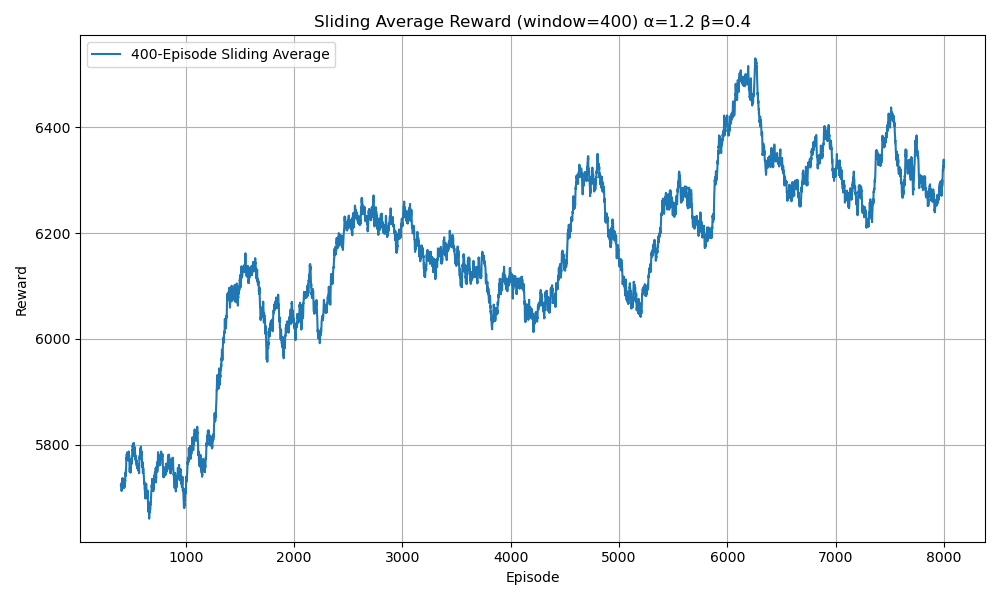
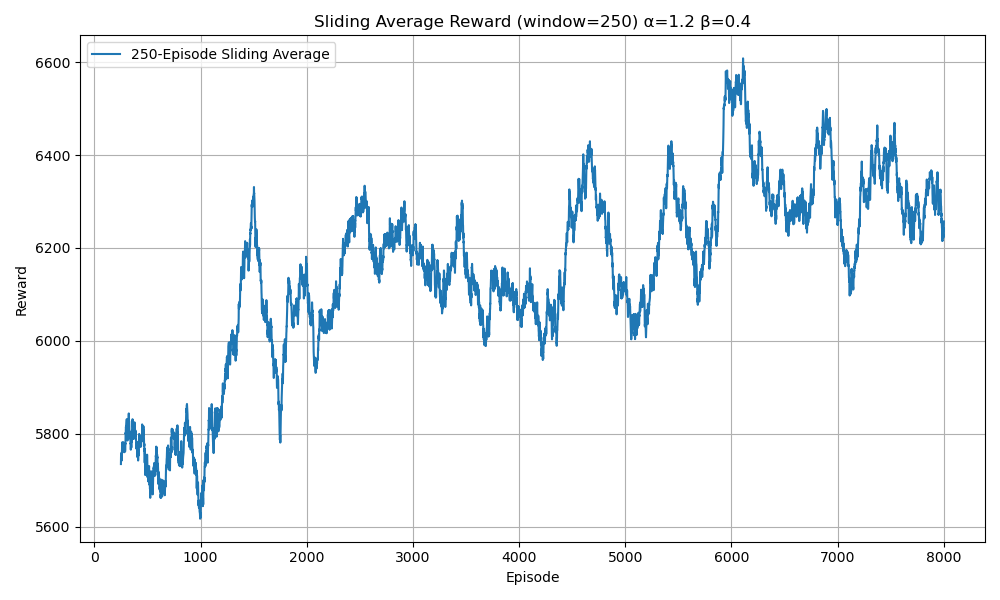
Update experiments, plots

diff --git a/utils/network_oran.py b/utils/network_oran.py
@@ -151,7 +151,7 @@ class O_RU:
     def get_processing_load(self)->float:
         GOPS = 0
         for ue in self.get_connected_ues():
-            GOPS += 0.15 + 0.4*(3*ue.get_ru().number_of_transmission_antennas + ue.get_ru().number_of_transmission_antennas**2 + ue.get_ru().modulation_order*ue.get_ru().code_rate*ue.get_ru().MIMO_layers/3)/5
+            GOPS += 0.4*(3*ue.get_ru().number_of_transmission_antennas + ue.get_ru().number_of_transmission_antennas**2 + ue.get_ru().modulation_order*ue.get_ru().code_rate*ue.get_ru().MIMO_layers/3)/5
         self.processing_load = max(1,GOPS/1600)
         return self.processing_load
 
@@ -205,7 +205,7 @@ class O_DU:
         # This function generates GOPS according to the paper "Dynamic Placement of O-CU and O-DU Functionalities in Open-RAN Architecture" by Hojeij et al.
         GOPS = 0
         for ue in self.get_connected_ues():
-            GOPS += 0.15 + 0.5*(3*ue.get_ru().number_of_transmission_antennas + ue.get_ru().number_of_transmission_antennas**2 + ue.get_ru().modulation_order*ue.get_ru().code_rate*ue.get_ru().MIMO_layers/3)/5
+            GOPS += 0.5*(3*ue.get_ru().number_of_transmission_antennas + ue.get_ru().number_of_transmission_antennas**2 + ue.get_ru().modulation_order*ue.get_ru().code_rate*ue.get_ru().MIMO_layers/3)/5
         self.processing_load = max(1, GOPS/1600)
         return self.processing_load
 

diff --git a/test/experiment_control.py b/test/experiment_control.py
@@ -8,7 +8,8 @@ sys.path.append(os.path.dirname(os.path.dirname(os.path.abspath(__file__))))
 from utils import StochDQNAgent
 from utils import NetworkSimulation
 
-import pandas as pd
+import torch
+import numpy as np
 
 STOCH_DQN_ALPHA_1_2_BETA_0_4 = '../models/stochastic_dqn_alpha_1.2_beta_0.4.pth'
 STOCH_DQN_ALPHA_0_6_BETA_0_4 = '../models/stochastic_dqn_alpha_0.6_beta_0.4.pth'
@@ -18,10 +19,23 @@ if __name__ == '__main__':
     L = 6
     N = 24
     
-    simulation_length = 43200
+    simulation_length = 200_000
     
+    agent: StochDQNAgent = StochDQNAgent(N,L,K)
+    agent.load(STOCH_DQN_ALPHA_1_2_BETA_0_4)
     
     NS_1 = NetworkSimulation(N,L,K, 1000, seed=724) # Energy efficient reward model
-    NS_1.run(simulation_length)
+    NS_1.running = True
+    NS_1.initialize_components()
+    NS_1.simulation_length = simulation_length
+    
+    rng = np.random.default_rng(seed=724)
+    fronthaul_delays: list[float] = []
 
-    print(f"Control: {NS_1.get_total_energy_consumption()}")
+    for step in range(0, simulation_length):
+        NS_1.step(step)
+    
+    print(f"Random Selection Model: {NS_1.get_total_energy_consumption()}")
+    print(f"Fronthaul Delays: {sum(fronthaul_delays)/len(fronthaul_delays)}")
+    
+    

diff --git a/test/experiment_alpha_1.2_beta_0.4.py b/test/experiment_alpha_1.2_beta_0.4.py
@@ -11,19 +11,20 @@ from utils import NetworkSimulation
 import pandas as pd
 
 STOCH_DQN_ALPHA_1_2_BETA_0_4 = '../models/stochastic_dqn_alpha_1.2_beta_0.4.pth'
-STOCH_DQN_ALPHA_0_6_BETA_0_4 = '../models/stochastic_dqn_alpha_0.6_beta_0.4.pth'
 
 if __name__ == '__main__':
     K = 80
     L = 6
     N = 24
     
-    simulation_length = 43200
+    simulation_length = 200_000
     
     agent: StochDQNAgent = StochDQNAgent(N,L,K)
     agent.load(STOCH_DQN_ALPHA_1_2_BETA_0_4)
     
     NS_1 = NetworkSimulation(N,L,K, 1000, seed=724) # Energy efficient reward model
+    NS_1.alpha = 1.2
+    NS_1.beta = 0.4
     NS_1.running = True
     NS_1.initialize_components()
     NS_1.simulation_length = simulation_length

diff --git a/test/plot_experiment_results.py b/test/plot_experiment_results.py
@@ -1,0 +1,20 @@
+import matplotlib.pyplot as plt
+
+# Data
+labels = ['Control', 'α=0.6, β=0.4', 'α=1.2, β=0.4']
+values = [650, 469.7, 472.4]
+
+# Plot
+plt.figure(figsize=(7, 5))
+bars = plt.bar(labels, values, color=['gray', 'skyblue', 'orange'])
+plt.ylabel('Energy (kWh)')
+plt.title('Energy Consumption Comparison')
+plt.ylim(0, 700)
+
+# Annotate bars
+for bar in bars:
+    yval = bar.get_height()
+    plt.text(bar.get_x() + bar.get_width()/2, yval + 10, f'{yval:.1f}', ha='center', va='bottom')
+
+plt.tight_layout()
+plt.show()

diff --git a/test/experiment_alpha_0.6_beta_0.4.py b/test/experiment_alpha_0.6_beta_0.4.py
@@ -18,12 +18,14 @@ if __name__ == '__main__':
     L = 6
     N = 24
     
-    simulation_length = 43200
+    simulation_length = 200_000
     
     agent: StochDQNAgent = StochDQNAgent(N,L,K)
     agent.load(STOCH_DQN_ALPHA_0_6_BETA_0_4)
     
     NS_2 = NetworkSimulation(N,L,K, 1000, seed=724) # Balanced reward model
+    NS_2.alpha = 0.6
+    NS_2.beta = 0.4
     NS_2.running = True
     NS_2.initialize_components()
     NS_2.simulation_length = simulation_length

diff --git a/test/plot_sliding_average.py b/test/plot_sliding_average.py
@@ -21,7 +21,7 @@ if 'Episode' not in df.columns:
 def sliding_average(data, window):
     return np.convolve(data, np.ones(window)/window, mode='valid')
 
-window_size = 400
+window_size = 250
 episodes = df['Episode'].values
 rewards = df['Reward'].values
 avg_rewards = sliding_average(rewards, window_size)

diff --git a/test/experiment_random.py b/test/experiment_random.py
@@ -19,7 +19,7 @@ if __name__ == '__main__':
     L = 6
     N = 24
     
-    simulation_length = 43200
+    simulation_length = 200_000
     
     agent: StochDQNAgent = StochDQNAgent(N,L,K)
     agent.load(STOCH_DQN_ALPHA_1_2_BETA_0_4)
